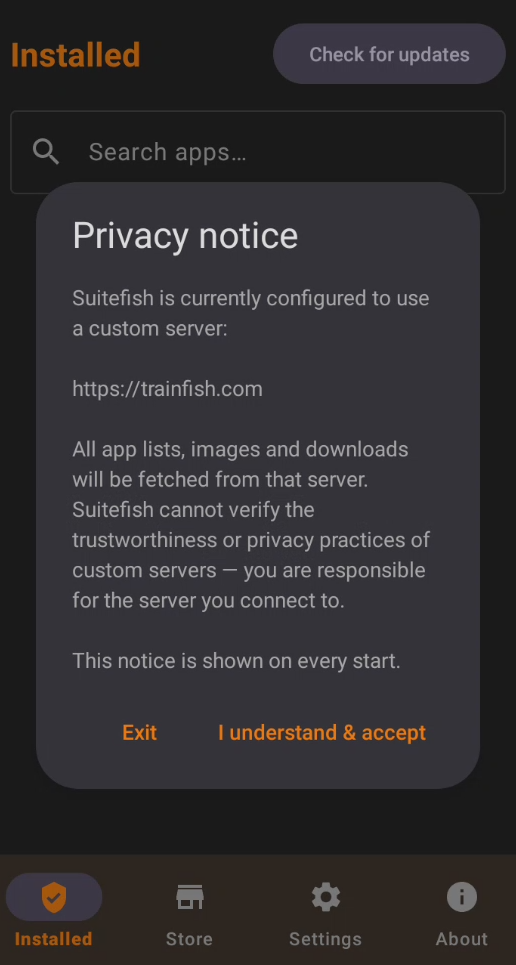
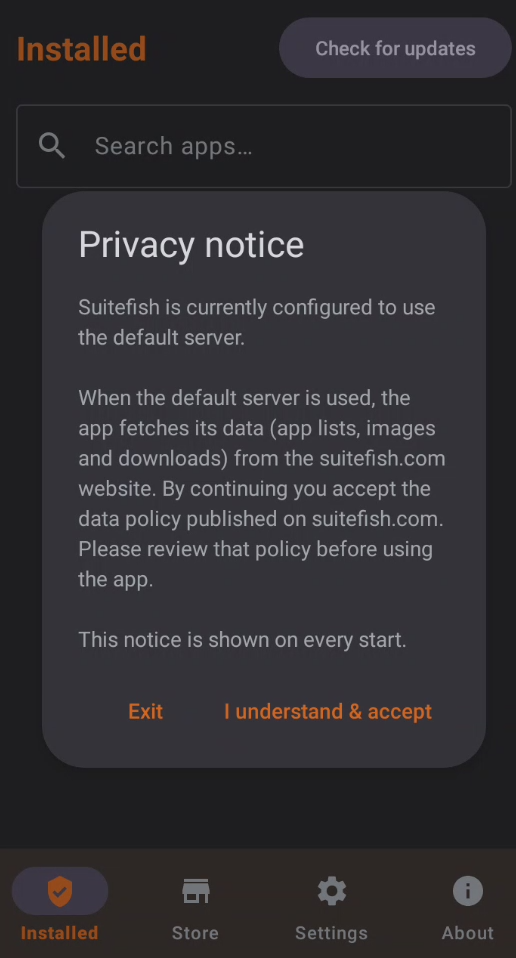
1.0.2

diff --git a/_changelogs/1.0.2.html b/_changelogs/1.0.2.html
@@ -1,0 +1,2 @@
+<p><strong>Version 1.0.2</strong></p>
+<p><strong>Description:</strong> UI Overhaul and Fixes.</p>

diff --git a/_source/app/src/main/java/com/suitefish/suitefishapk/ui/AppListAdapter.java b/_source/app/src/main/java/com/suitefish/suitefishapk/ui/AppListAdapter.java
@@ -1,5 +1,6 @@
 package com.suitefish.suitefishapk.ui;
 
+import android.annotation.SuppressLint;
 import android.view.LayoutInflater;
 import android.view.View;
 import android.view.ViewGroup;
@@ -32,6 +33,8 @@ public class AppListAdapter extends RecyclerView.Adapter<AppListAdapter.VH> {
         this.clickListener = clickListener;
     }
 
+    // The whole list is swapped on every catalog refresh, so a full rebind is intended.
+    @SuppressLint("NotifyDataSetChanged")
     public void setItems(List<AppItem> newItems) {
         items.clear();
         if (newItems != null) items.addAll(newItems);